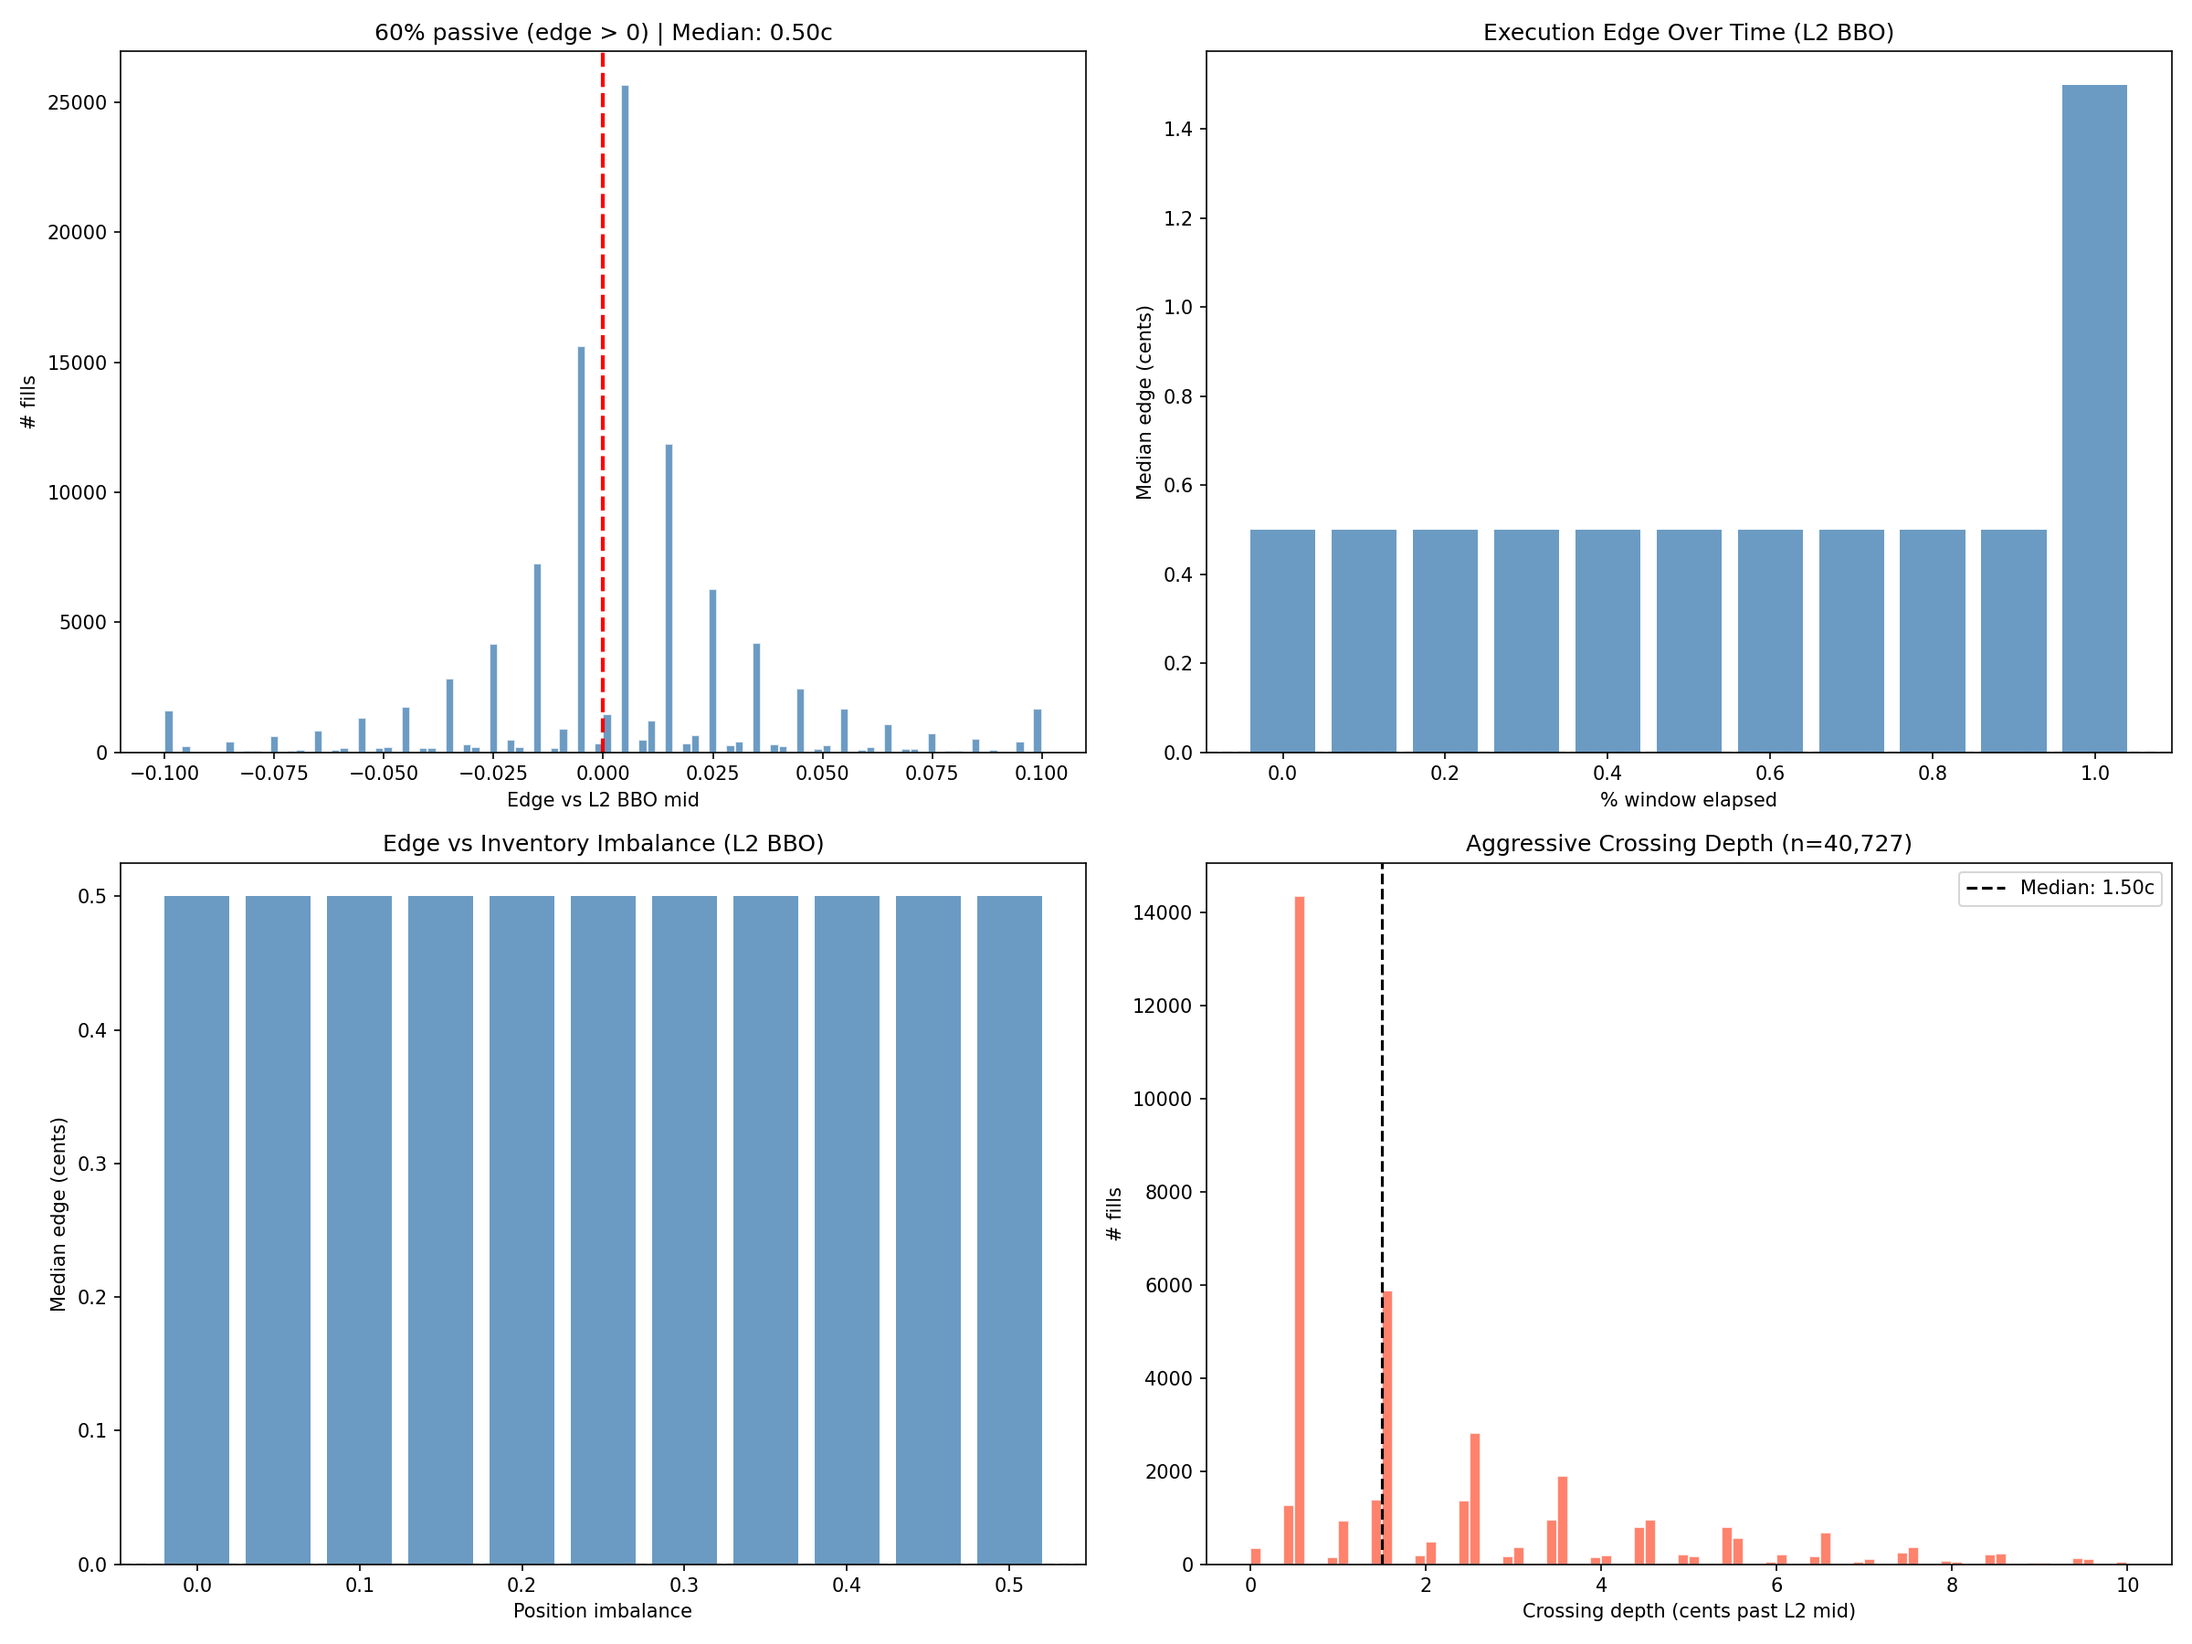
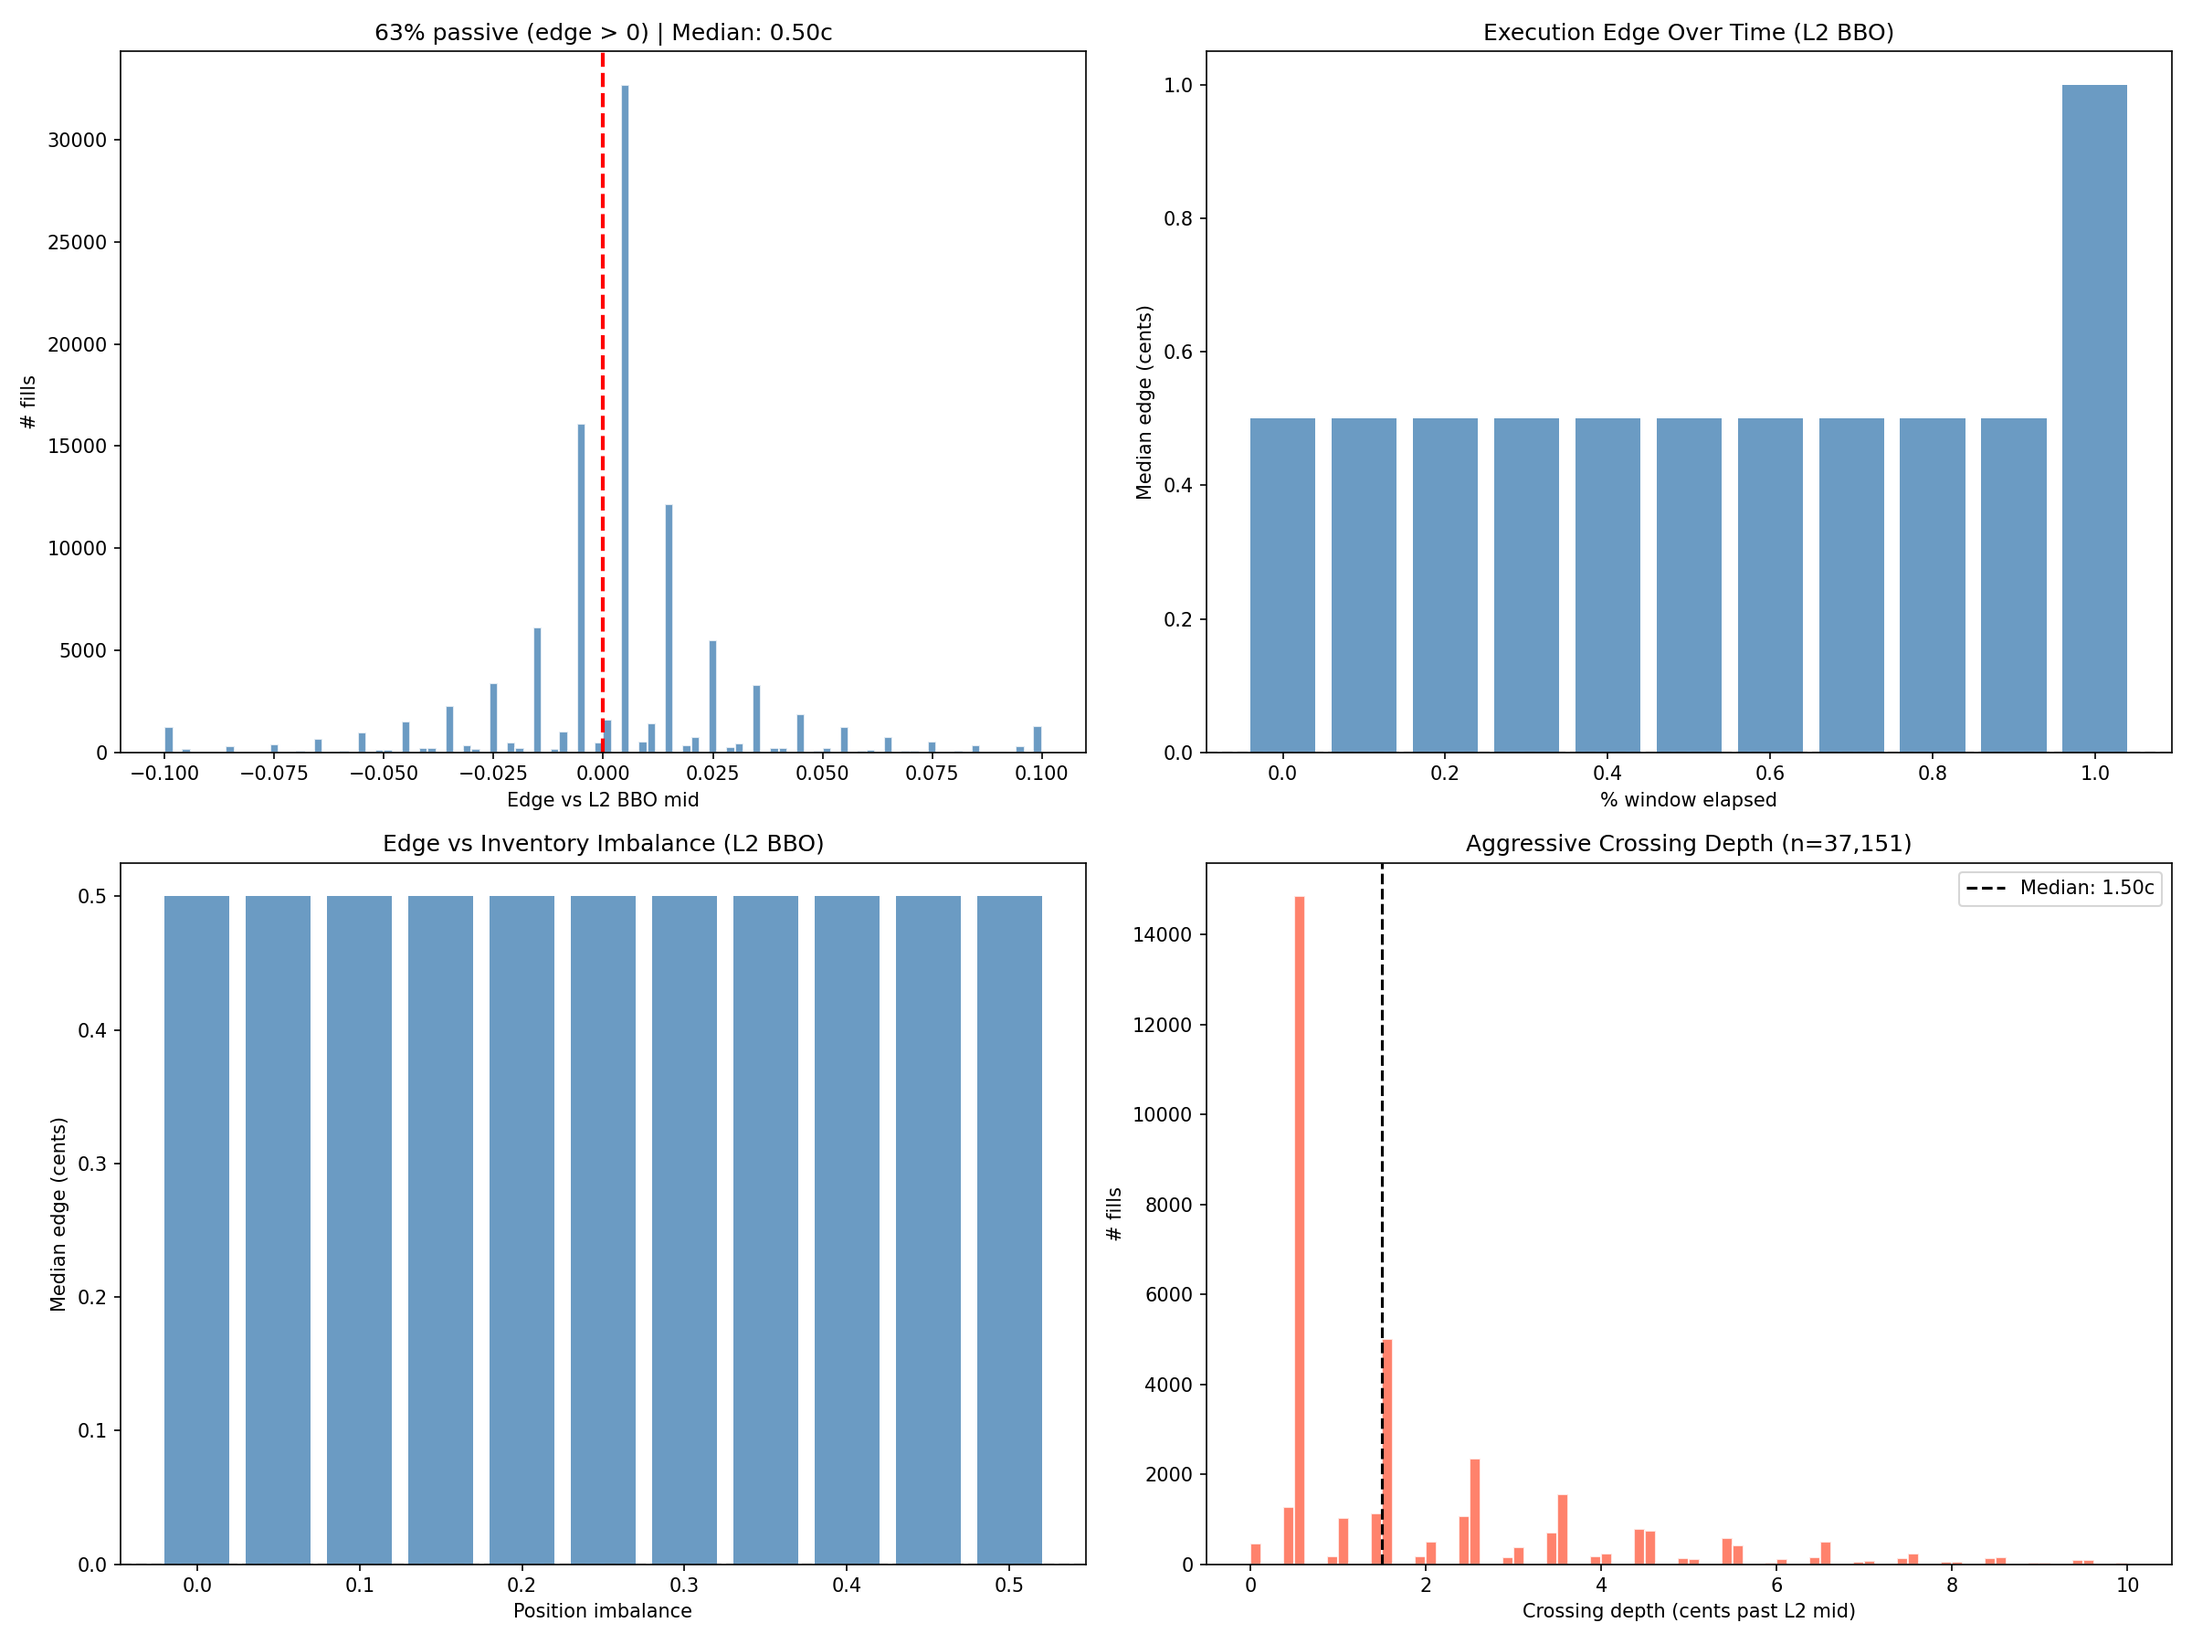
Apply -1s block timestamp correction and add sensitivity analysis
Polygon block timestamps lag matching-engine execution by ~0-2s. Correct
all L2 BBO lookups by -1s (half block time) and add sensitivity analysis
sweeping -3s to +3s. Maker/taker split shifts from 61.5/38.5 to 65.0/35.0.
Qualitative findings stable across all offsets. Regenerated L2-dependent
plots and updated all docs with corrected numbers.

diff --git a/docs/FINDINGS.md b/docs/FINDINGS.md
@@ -53,7 +53,7 @@ The edge is **~0.9 cents per matched pair** on average. This is small per trade 
 
 **Plot 07 — Maker/Taker Classification** (`figures/07_maker_taker_classification.png`)
 - L2 BBO comparison classifies fills as maker (resting) or taker (aggressive)
-- **61.5% maker / 38.5% taker** — more passive than aggressive, but a substantial taker component
+- **65.0% maker / 35.0% taker** — more passive than aggressive, but a substantial taker component
 - Classification rate: **99.9%** of fills successfully classified using L2 book state
 
 **Plot 09 — Ladder Reconstruction** (`figures/09_ladder_reconstruction.png`)
@@ -79,7 +79,7 @@ The edge is **~0.9 cents per matched pair** on average. This is small per trade 
 
 ### Interpretation
 
-The aggression triggers reveal the MM's implicit cost function: they're willing to pay spread-crossing cost to close an imbalance, but only when passive accumulation becomes unlikely given remaining time. This is consistent with optimal control theory on pair accumulation. The 61.5/38.5 maker-taker split, confirmed by L2 BBO comparison, shows a strategy that leans passive but is not afraid to pay for urgency.
+The aggression triggers reveal the MM's implicit cost function: they're willing to pay spread-crossing cost to close an imbalance, but only when passive accumulation becomes unlikely given remaining time. This is consistent with optimal control theory on pair accumulation. The 65/35 maker-taker split, confirmed by L2 BBO comparison, shows a strategy that leans passive but is not afraid to pay for urgency.
 
 ---
 
@@ -132,7 +132,7 @@ The 15-minute window creates a natural deadline that forces resolution. The MM's
 
 ### Interpretation
 
-L2-backed classification eliminates the ambiguity that plagues trade-print-only analysis. When we say "61.5% maker," that number comes from comparing each fill price to the actual BBO at that moment — not from inferring aggressor side based on tick direction or trade size heuristics.
+L2-backed classification eliminates the ambiguity that plagues trade-print-only analysis. When we say "65% maker," that number comes from comparing each fill price to the actual BBO at the time of matching-engine execution — not from inferring aggressor side based on tick direction or trade size heuristics. A -1 second timestamp correction is applied to align on-chain block timestamps with the real-time L2 book state (see Methodology).
 
 ---
 
@@ -191,8 +191,8 @@ The economics are straightforward:
 | Median pair cost | $0.9911 |
 | Edge per pair | ~0.9 cents |
 | Win rate | 57.3% |
-| Maker fills | 61.5% |
-| Taker fills | 38.5% |
+| Maker fills | 65.0% |
+| Taker fills | 35.0% |
 | Classification rate | 99.9% |
 | Median final imbalance | 2.5% |
 | Cumulative P&L | $3,413 |
@@ -238,6 +238,7 @@ The ~0.9-cent per-pair edge multiplied across windows is the business model. It 
 - **Smaller dataset:** 157 windows is fewer than a trade-print-only analysis could produce. But every window has full L2 orderbook coverage, making each claim directly verifiable rather than inferred.
 - **Survivorship bias:** Only analyzing a successful MM. Wallets that lost money and stopped are not in the dataset.
 - **L2 timing resolution:** ~1 second snapshots miss sub-second dynamics. Some fill timing may be imprecise at the millisecond level, though 99.9% classification rate suggests this is not a significant issue.
+- **Block timestamp alignment:** Trade timestamps from the data API are Polygon block timestamps (integer seconds, ~2s block time), which lag matching-engine execution by 0-2 seconds. A -1 second correction is applied as the best point estimate. Sensitivity analysis across offsets from -3s to +3s shows maker% ranging from 57.0% to 77.8%, with the applied -1s correction yielding 65.0%. The qualitative findings (majority-maker with state-dependent aggression) are stable across all offsets.
 - **Multi-wallet operation:** A single entity may operate multiple wallets, making this an incomplete picture of their full activity.
 - **Regime changes:** The observed behavior reflects a specific competitive landscape that evolves over time.
 - **Public data only:** The MM's internal model parameters, risk limits, and fair value estimates remain unknown. We observe the behavioral surface of a deeper model.

diff --git a/docs/METHODOLOGY.md b/docs/METHODOLOGY.md
@@ -173,6 +173,30 @@ Three structural features of Polymarket make this analysis possible:
 
 ## Data Quality
 
+### Block Timestamp Correction
+
+Trade timestamps from the Polymarket data API are **Polygon block timestamps**, not matching-engine execution times. Evidence:
+
+- Inter-trade gap analysis reveals **exclusively even-second gaps** (0, 2, 4, 6, 8...) with zero 1-second gaps
+- This is consistent with Polygon's ~2-second block time — trades are batched into blocks and stamped with the block timestamp
+- The L2 WebSocket data, by contrast, carries real-time matching-engine timestamps (sub-second precision)
+
+This creates a systematic 0-2 second delay (mean ~1s) when looking up the L2 BBO state at a trade's recorded timestamp. To correct for this, a **-1 second offset** is applied to all trade timestamps before BBO lookup — shifting the lookup back by half the average block time to align with the actual execution moment.
+
+**Sensitivity analysis:** Sweeping the correction from -3s to +3s:
+
+| Offset | Maker % | Taker % |
+|--------|---------|---------|
+| -3s | 77.8% | 22.2% |
+| -2s | 70.9% | 29.1% |
+| **-1s (applied)** | **65.0%** | **35.0%** |
+| 0s (uncorrected) | 61.5% | 38.5% |
+| +1s | 59.5% | 40.5% |
+| +2s | 58.0% | 42.0% |
+| +3s | 57.0% | 43.0% |
+
+The qualitative conclusion — majority-maker with state-dependent aggressive fills — is robust across all offsets. The -1s correction is the best point estimate: half the ~2s block time, maximizing L2 classification rate (99.9% of fills classified).
+
 ### L2 Timing Resolution
 
 Book snapshots arrive at ~1 Hz. This creates a fundamental timing limitation:

diff --git a/README.md b/README.md
@@ -65,8 +65,8 @@ The market maker buys both YES and NO shares in each window, targeting a combine
 | Edge per matched pair | ~0.9 cents |
 | Win rate | 57.3% across 157 resolved windows |
 | Total P&L (observation period) | $3,413 |
-| Maker fills | 61.5% |
-| Taker fills | 38.5% |
+| Maker fills | 65.0% |
+| Taker fills | 35.0% |
 | L2 classification rate | 99.9% |
 
 ---
@@ -87,7 +87,7 @@ The combined cost distribution is centered at $0.9911 -- consistently below the 
 
 ### L2-Backed Maker/Taker Classification
 
-Every fill is classified using actual L2 orderbook diffs rather than inference from price data. By comparing the best bid/offer immediately before and after each fill, we determine whether the fill consumed resting liquidity (taker) or was resting liquidity that got hit (maker). 61.5% of fills are maker, 38.5% taker -- confirming the MM's primary role as a passive liquidity provider that selectively crosses the spread to rebalance.
+Every fill is classified using actual L2 orderbook diffs rather than inference from price data. By comparing the best bid/offer immediately before and after each fill, we determine whether the fill consumed resting liquidity (taker) or was resting liquidity that got hit (maker). 65% of fills are maker, 35% taker -- confirming the MM's primary role as a passive liquidity provider that selectively crosses the spread to rebalance.
 
 ![Maker/Taker Classification](figures/07_maker_taker_classification.png)
 
